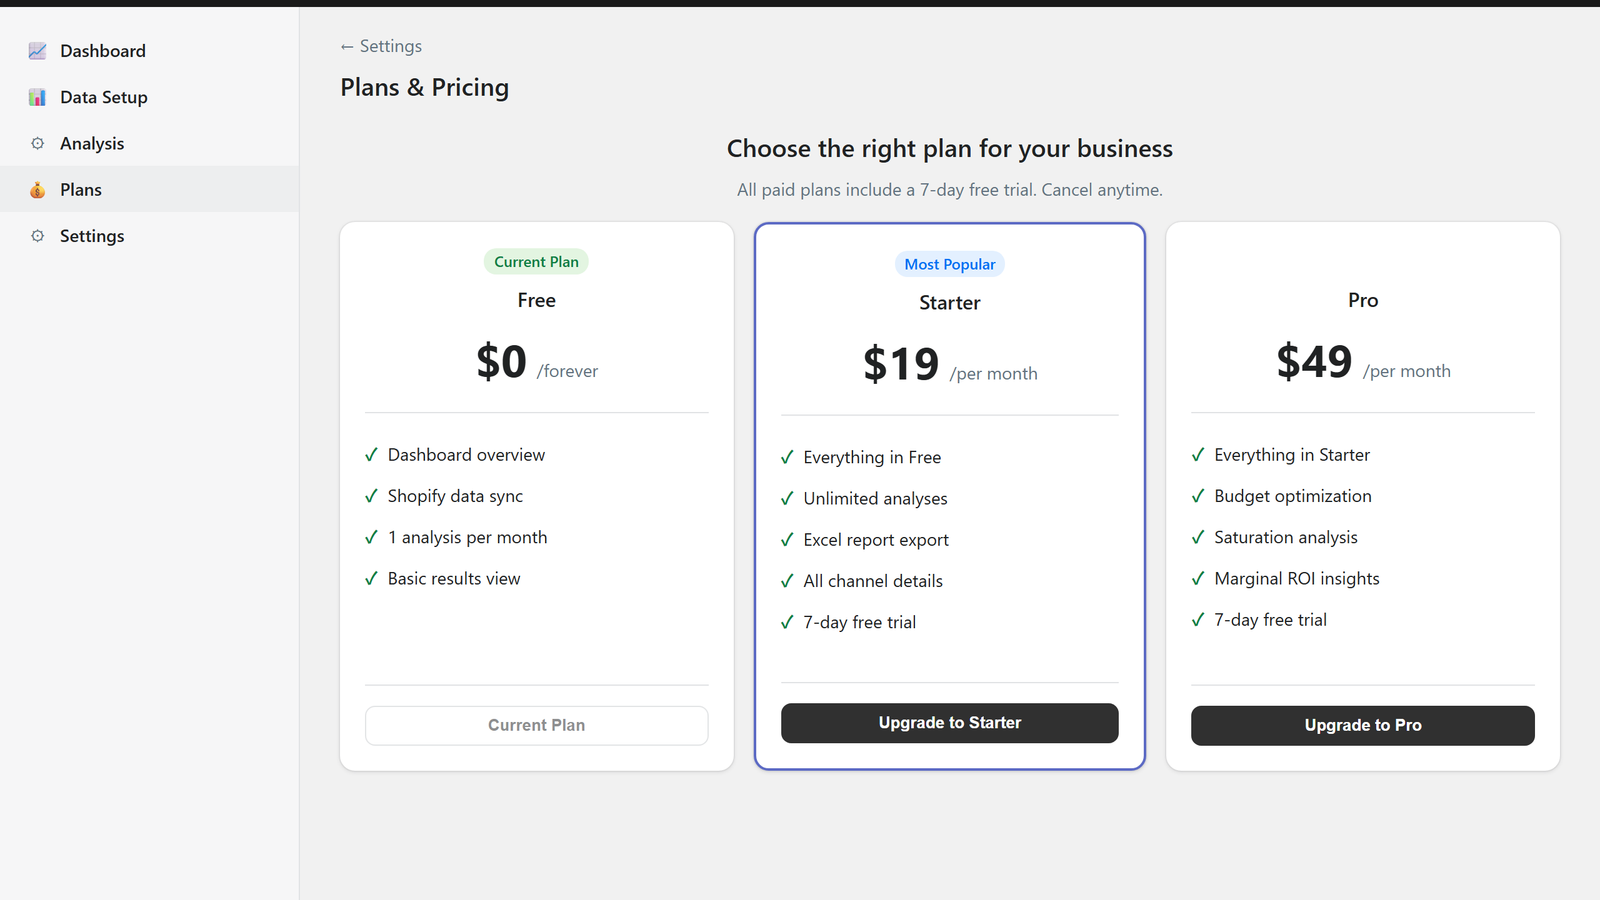
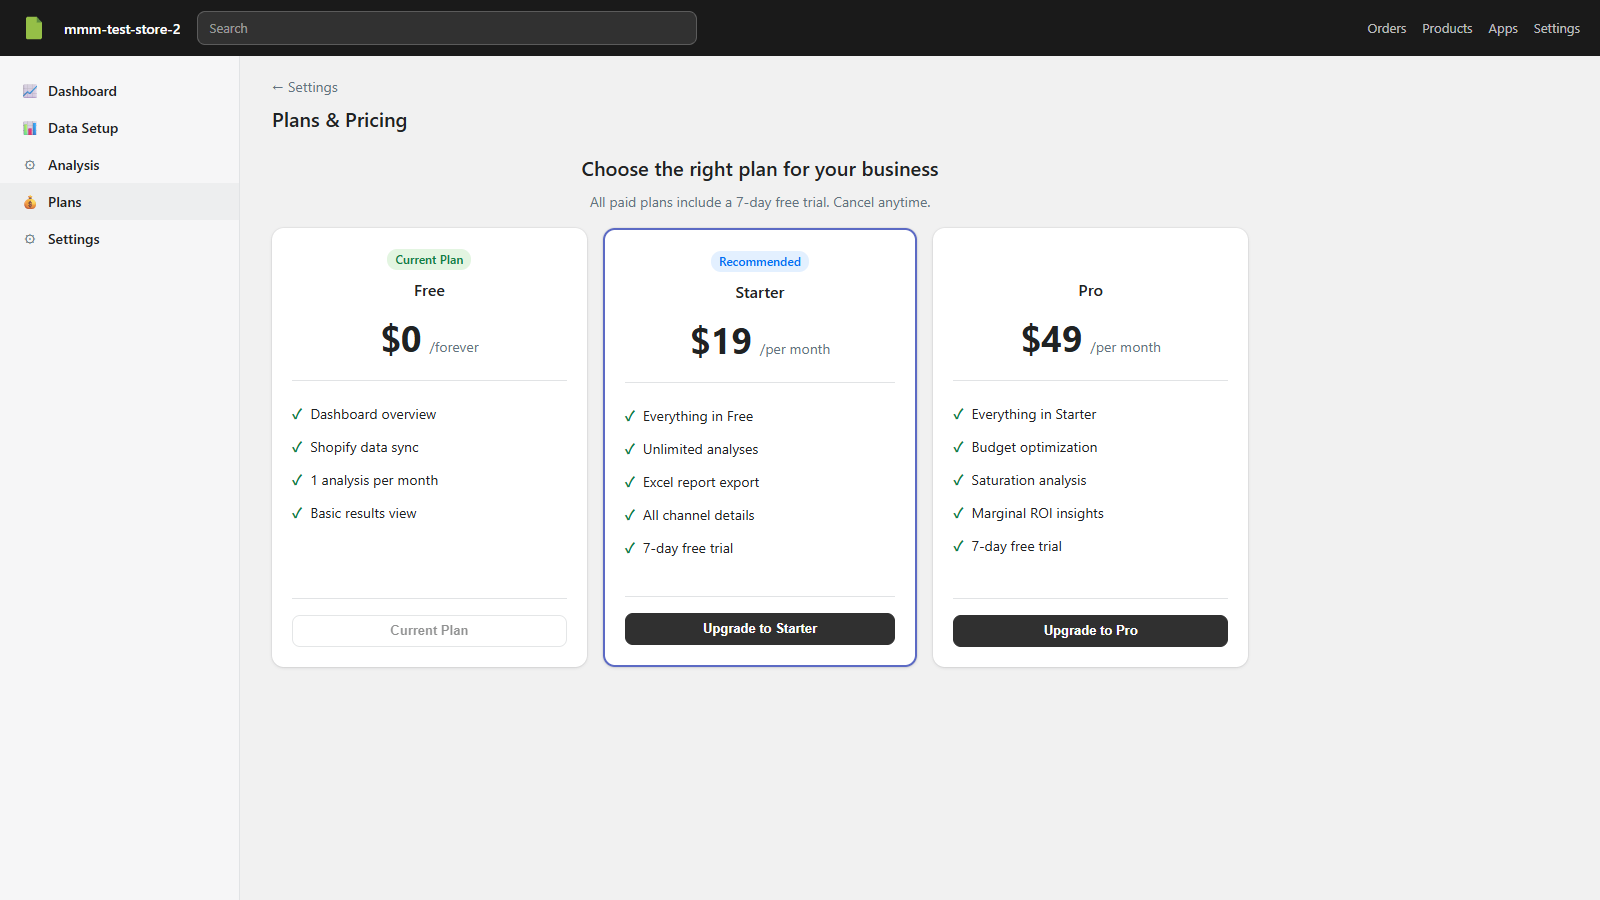
fix: Replace "Most Popular" with "Recommended" in plans screenshot
Shopify listing guideline: screenshots can't contain unsubstantiated
claims. Also added 1600x900 capture script for consistent sizing.

diff --git a/scripts/screenshot-pages/plans.html b/scripts/screenshot-pages/plans.html
@@ -80,7 +80,7 @@
           <div class="card" style="height:100%; border: 2px solid #5C6AC4;">
             <div class="card-body" style="display:flex; flex-direction:column; height:100%;">
               <div class="text-center mb-16">
-                <div class="mb-8"><span class="badge badge-info">Most Popular</span></div>
+                <div class="mb-8"><span class="badge badge-info">Recommended</span></div>
                 <div class="text-heading-md">Starter</div>
                 <div class="mt-8">
                   <span style="font-size:36px; font-weight:700;">$19</span>
